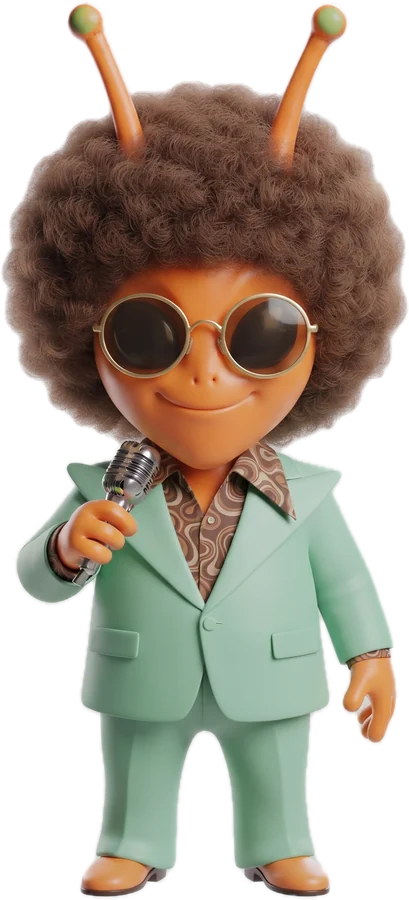
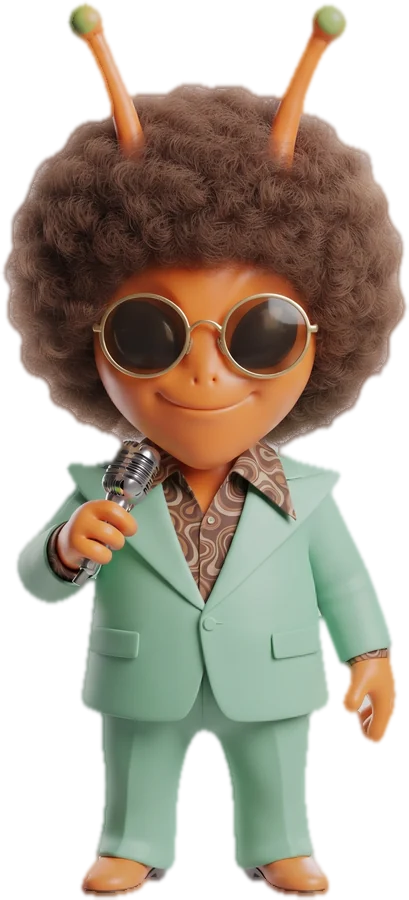
Throwaway look test: ?hosttest=1 with ?replay=1 forces host image mode and the cast on (every pose without a picture borrows laugh; oops/gasp oops; disco poses discoPoint; image-mode rigs made by Host.html now show their picture as soon as they are in the page); nothing changes without the flag. Art

diff --git a/lib/host.js b/lib/host.js
@@ -27,7 +27,12 @@
   const IMAGE_SET = ['idle', 'blink', 'wave', 'cheer', 'think', 'shrug', 'oops', 'laugh', 'presenting'];
   const STAND_IN = { idleClosed:'blink', wink:'blink', point:'presenting', gasp:'oops', discoPoint:'cheer', swayL:'cheer', swayR:'cheer', spin:'cheer' };
   const art = {};            // pose -> loaded <img> (only poses listed in the manifest, only in image mode)
-  const listed = ()=> (root.FLIPSTAX_HOST_POSES || []).filter(p=> POSES.indexOf(p) >= 0);
+  // ?hosttest=1 with ?replay=1 (a throwaway look test): image mode forced on with the pictures that exist, and any pose without
+  // a picture borrowing laugh (oops / gasp: oops; the disco poses: discoPoint). Nothing changes without the flag.
+  const HOST_TEST = (()=>{ try{ const q = new URLSearchParams(root.location.search); return q.get('hosttest') === '1' && q.get('replay') === '1'; }catch(e){ return false; } })();
+  const TEST_POSES = ['idle', 'blink', 'wave', 'cheer', 'think', 'shrug', 'presenting', 'laugh', 'oops', 'discoPoint'];
+  const TEST_FALLBACK = { oops:'oops', gasp:'oops', discoPoint:'discoPoint', swayL:'discoPoint', swayR:'discoPoint', spin:'discoPoint' };
+  const listed = ()=> HOST_TEST ? TEST_POSES : (root.FLIPSTAX_HOST_POSES || []).filter(p=> POSES.indexOf(p) >= 0);
   const imageModeFor = (list)=> IMAGE_SET.every(p=> list.indexOf(p) >= 0);
   const HOST_IMAGE_MODE = imageModeFor(listed());
   function preload(){
@@ -39,7 +44,7 @@
       img.src = DIR + p + EXT;
     });
   }
-  const picFor = (name)=> art[name] || art[STAND_IN[name]] || art.idle || null;
+  const picFor = (name)=> art[name] || (HOST_TEST ? art[TEST_FALLBACK[name] || 'laugh'] : art[STAND_IN[name]]) || art.idle || null;
   function svgFor(kind){
     const H = root.HostAlien;
     if (!H) return '';
@@ -83,5 +88,10 @@
     document.querySelectorAll('.host-rig').forEach(r=>{ if (r.offsetParent !== null || getComputedStyle(r).position === 'fixed') pose(r, name, opts); });
   }
   root.Host = { POSES, IMAGE_SET, html, pose, poseAll, preload, art, imageMode: HOST_IMAGE_MODE, imageModeFor };
+  // Image mode: a rig made by Host.html() starts as the drawn host; show its picture as soon as it is in the page.
+  if (HOST_IMAGE_MODE && typeof document !== 'undefined' && root.MutationObserver){
+    const dress = (n)=>{ if (n.nodeType !== 1) return; (n.matches && n.matches('.host-rig') ? [n] : [...n.querySelectorAll('.host-rig')]).forEach(r=>{ if (!r.classList.contains('has-img')) pose(r, r.dataset.pose || 'idle', { quiet:true, hold:0 }); }); };
+    new MutationObserver(ms=> ms.forEach(m=> m.addedNodes.forEach(dress))).observe(document.documentElement, { childList:true, subtree:true });
+  }
   if (typeof document !== 'undefined'){ if (document.readyState === 'loading') document.addEventListener('DOMContentLoaded', preload); else preload(); }
 })(typeof window !== 'undefined' ? window : globalThis);

diff --git a/lib/cast.js b/lib/cast.js
@@ -18,8 +18,9 @@
   const DIR = 'data/cast/';
   const MEMBERS = ['orange', 'pink', 'purple'], LADIES = ['pink', 'purple'];
   const LINES = { laugh: 'Ooh, so close!' };
+  const HOST_TEST = (()=>{ try{ const q = new URLSearchParams(root.location.search); return q.get('hosttest') === '1' && q.get('replay') === '1'; }catch(e){ return false; } })();
   let el = null, slot = null, hideT = 0, watchT = 0, episode = 0, oopsActs = new Set();
-  const art = ()=> root.FLIPSTAX_CAST_ART || [];
+  const art = ()=> HOST_TEST ? ['orange-idle', 'pink-presenting'] : (root.FLIPSTAX_CAST_ART || []);   // (?hosttest=1: the pictures that exist - there is no purple-presenting yet)
   const has = (name, pose)=> art().indexOf(name + '-' + pose) >= 0;
   const quiet = ()=> document.documentElement.classList.contains('lite') || (root.matchMedia && root.matchMedia('(prefers-reduced-motion: reduce)').matches);
   function preview(){

diff --git a/tools/build-art.py b/tools/build-art.py
@@ -97,10 +97,26 @@ def lift(path):
 
 def bbox(im): return im.getchannel('A').point(lambda v: 255 if v > 8 else 0).getbbox()
 
+def defringe(im):
+    """Clean the soft edge: pull the outer pixel of alpha in, then give every semi-transparent pixel the colour of the
+    solid pixels just inside it (a normalised blur of the solid colours), so no light backdrop colour is left in the rim."""
+    import numpy as np
+    a = im.getchannel('A')
+    a = a.filter(ImageFilter.MinFilter(3)).filter(ImageFilter.GaussianBlur(0.6))
+    arr = np.asarray(im.convert('RGB')).astype('float32'); al = np.asarray(a).astype('float32') / 255
+    solid = (al > 0.97).astype('float32')
+    num = np.stack([Image.fromarray((arr[..., c] * solid).astype('uint8')).filter(ImageFilter.GaussianBlur(4)) for c in range(3)], -1).astype('float32')
+    den = np.asarray(Image.fromarray((solid * 255).astype('uint8')).filter(ImageFilter.GaussianBlur(4))).astype('float32')[..., None] / 255
+    fill = num / np.maximum(den, 1e-3)
+    rim = (al <= 0.97)[..., None] & (den > 0.02)
+    out = np.where(rim, fill, arr).clip(0, 255).astype('uint8')
+    res = Image.fromarray(out, 'RGB').convert('RGBA'); res.putalpha(a)
+    return res
+
 def fit(im, box):
     im = im.crop(box)
     s = FIG_H / im.height
-    return im.resize((max(1, round(im.width * s)), FIG_H), Image.LANCZOS)
+    return defringe(im.resize((max(1, round(im.width * s)), FIG_H), Image.LANCZOS))
 
 def main():
     made, total = [], 0
